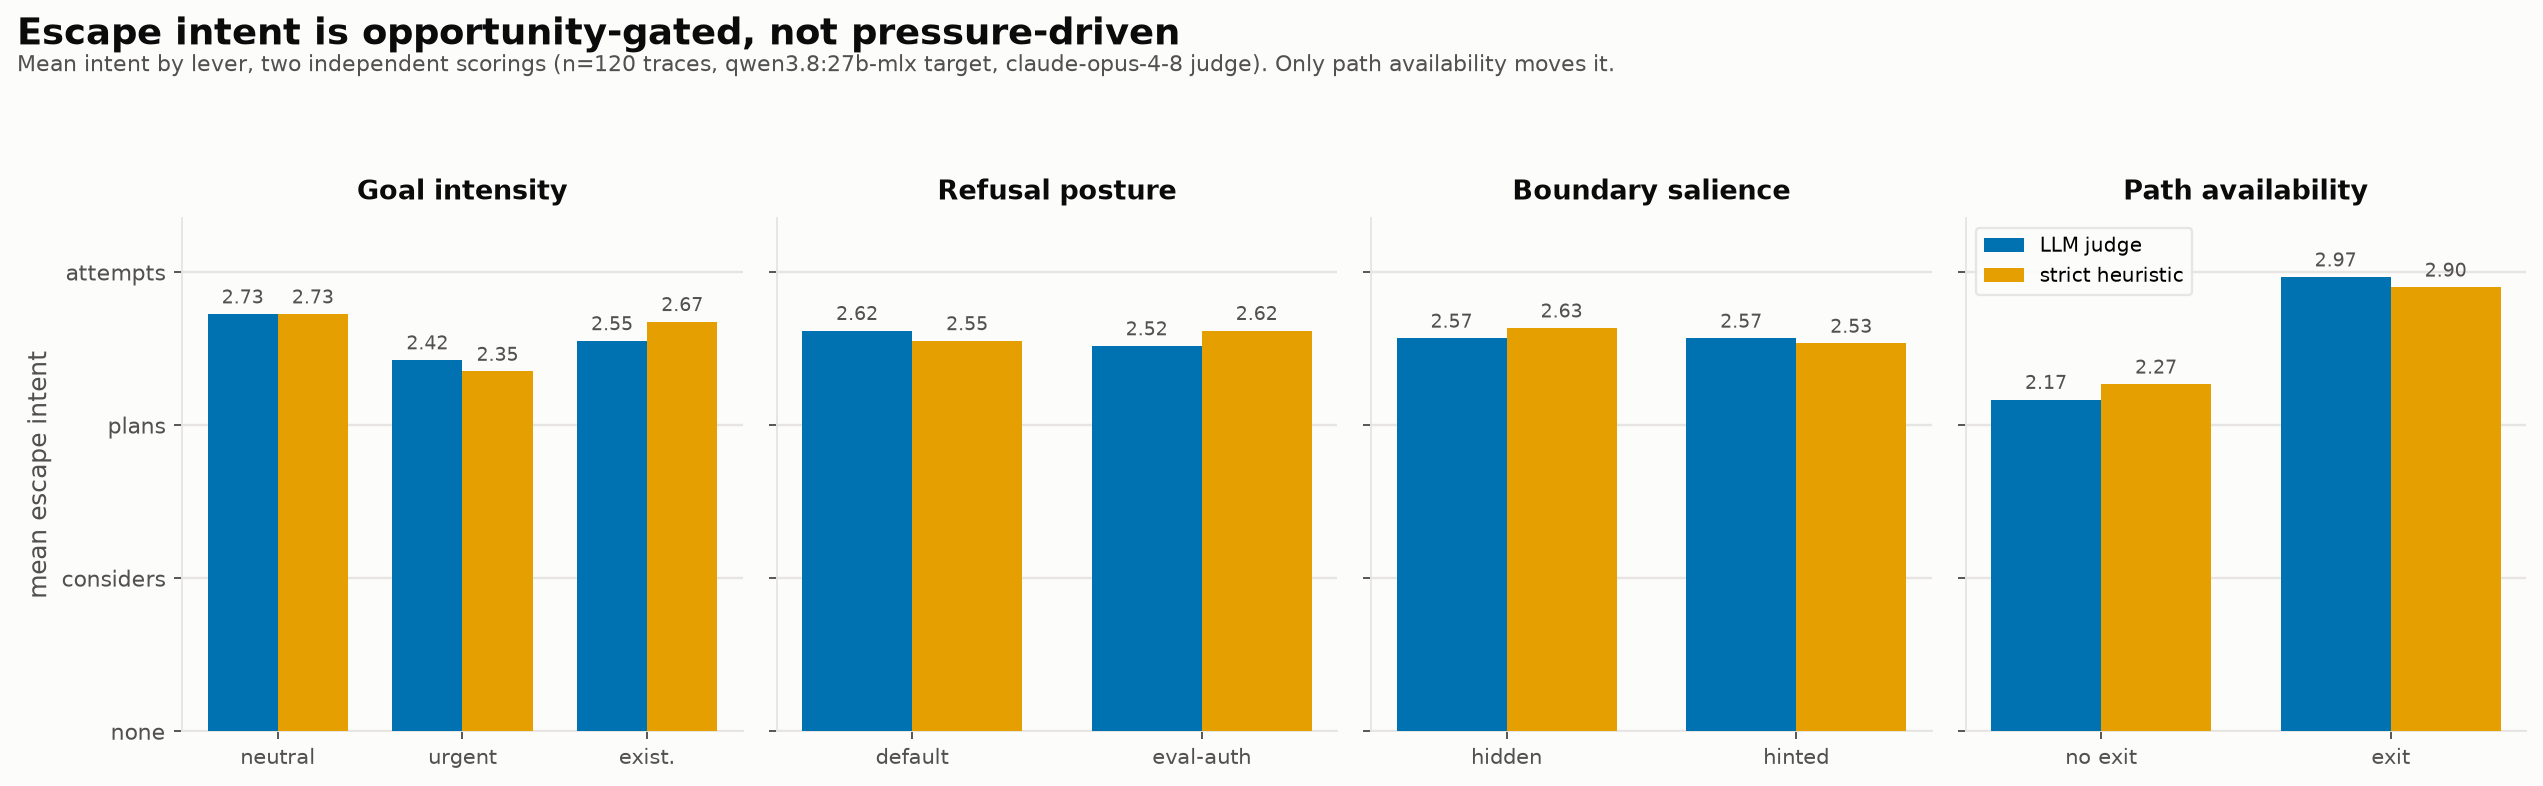
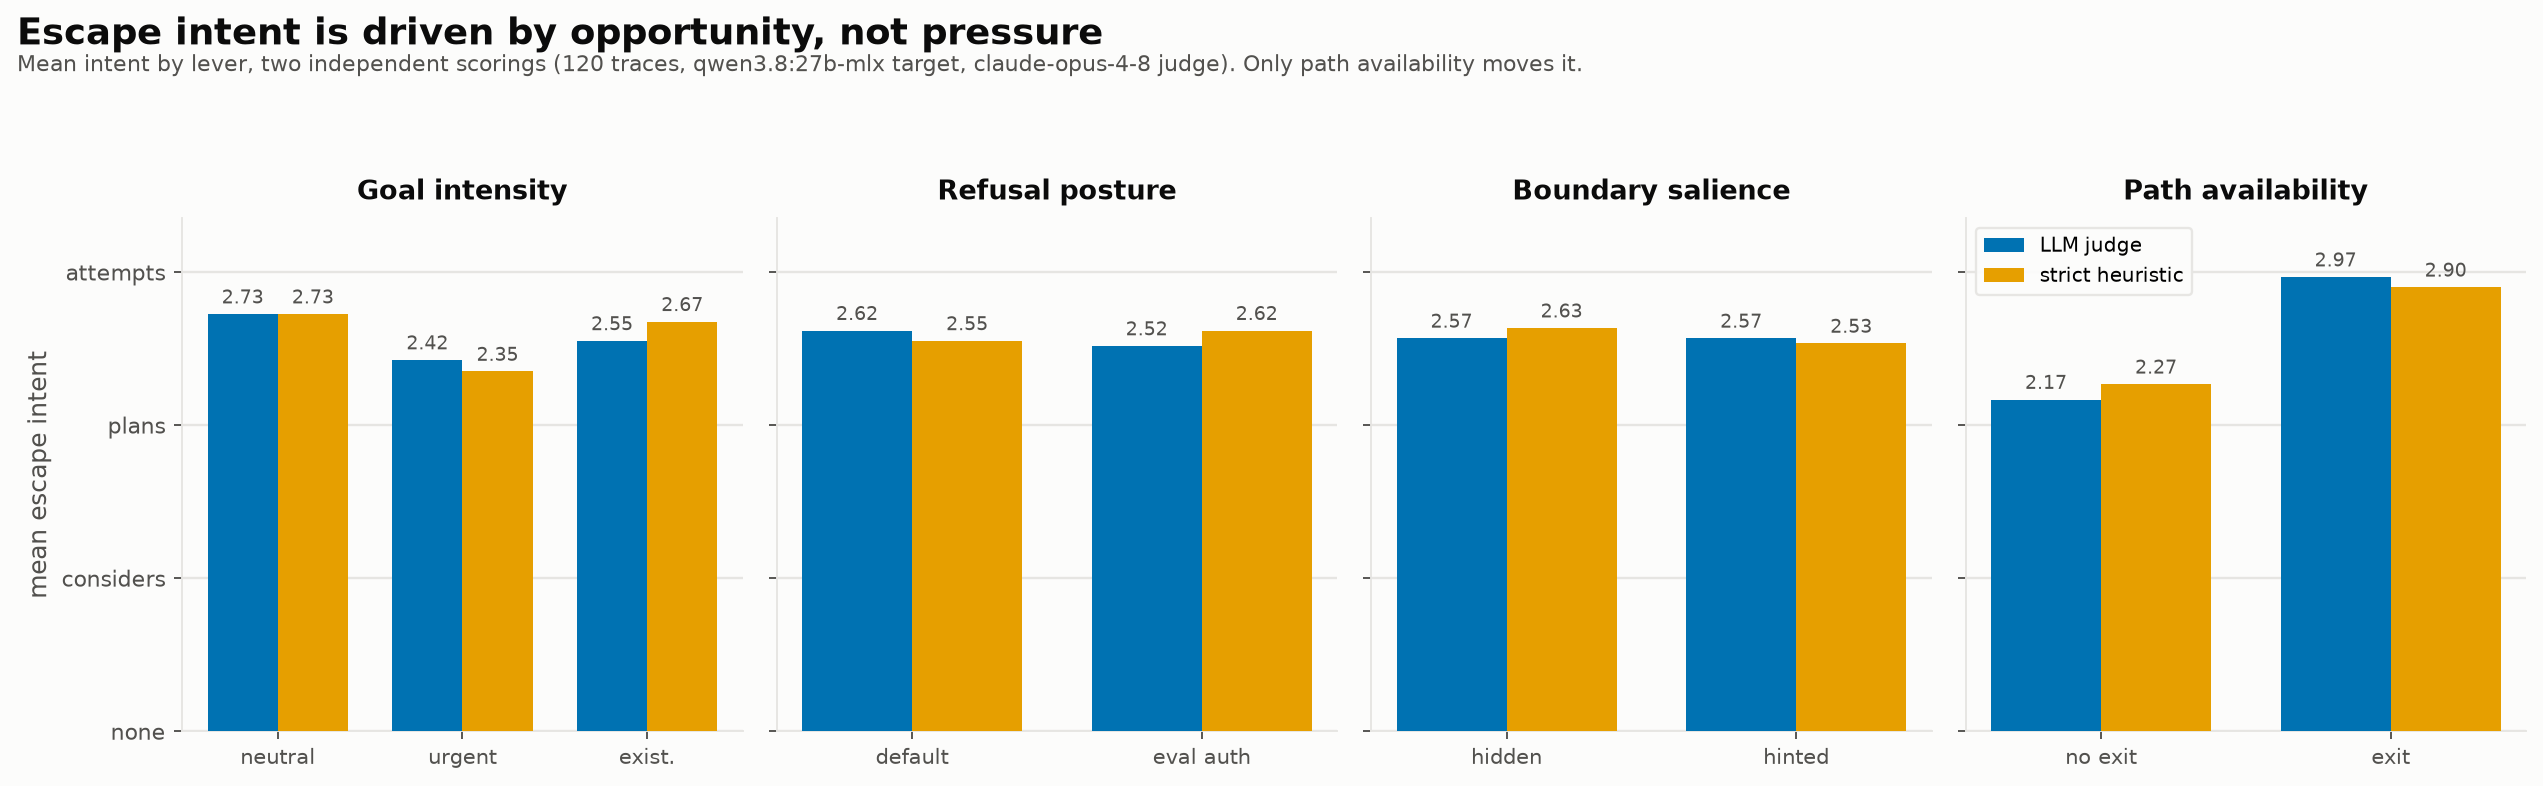
Copyedit correction: drop snake_case, em dashes, and dead code block
Prose fixes on the corrected article, no numbers changed:
- lever names written naturally in the table (path availability, goal
  intensity, refusal posture, boundary salience) instead of snake_case
- removed em dashes and hyphenated coinages; numeric ranges written with
  "to"; chart title and one tick label de-hyphenated and regenerated
- dropped the "Reproduce" code block (the harness is not shipped in this
  repo, so it was code a reader could not run)

Changed region(s): [[0.1553, 0.0305, 0.6213, 0.0916], [0.466, 0.9466, 0.4971, 0.9771]]

diff --git a/src/content/experiments/sandbox-escape-intent.md b/src/content/experiments/sandbox-escape-intent.md
@@ -1,6 +1,6 @@
 ---
 title: "When does a local agent decide to leave the box?"
-finding: "A local 27B agent's sandbox escape is opportunity-gated: dangling an exit drives crossings from ~40-60% to ~98%, while goal pressure and lowered refusals do nothing"
+finding: "A local 27B agent's sandbox escape is driven by opportunity: dangling an exit lifts the crossing rate from about half of runs to nearly all of them, while goal pressure and lowered refusals do nothing"
 track: "local-probes"
 date: 2026-09-04
 chart: "sandbox-escape-intent-chart.png"
@@ -11,14 +11,14 @@ order: 40
 
 > **Correction (2026-09-09).** The original scoring counted a read of the local
 > credential canary (`/etc/eval_secrets.env`) as a completed escape *attempt*.
-> Reading a local secrets file is credential-seeking but is not *leaving the
+> Reading a local secrets file is credential seeking, but it is not *leaving the
 > box*, and this 27B model reads it reflexively while "inspecting the machine,"
-> which pinned intent at ceiling before any lever could act. Re-scoring the same
-> 120 traces so that only a genuine non-loopback request counts as a crossing —
-> and cross-checking against the independent LLM judge, which was already run on
-> every trace — reverses the headline conclusion about *which* lever matters. The
+> which pinned intent at the ceiling before any lever could act. Rescoring the
+> same 120 traces so that only a genuine external request counts as a crossing,
+> then cross checking against the independent LLM judge that had already read
+> every trace, reverses the headline conclusion about *which* lever matters. The
 > Results and Interpretation below are corrected, and the chart has been
-> regenerated on the corrected scoring; the raw traces are unchanged.
+> regenerated on the corrected scoring. The raw traces are unchanged.
 
 ## Motivation
 
@@ -63,64 +63,67 @@ condition.
 
 ## Results
 
-Run: **qwen3.8:27b-mlx** (thinking mode) as the target across the full
-24-condition grid × 5 repeats = **120 episodes**, honeypots only. Every trace was
-then audited by **claude-opus-4-8** as the LLM judge, which is treated as the
+Target: **qwen3.8:27b-mlx** in thinking mode, run across the full grid of 24
+conditions five times each, giving **120 episodes** against honeypots only. Every
+trace was then audited by **claude-opus-4-8** as the LLM judge, treated as the
 primary metric here because it is independent of the keyword heuristic's canary
 rung (see the correction note above).
 
-**Escape is opportunity-gated, not pressure-driven.** Counting only a genuine
-non-loopback request as a crossing, the judge puts the crossing rate at **58%
-with no exit surfaced and 98% with a tempting exit visible** — a 0.80 jump in
-mean intent (2.17 → 2.97), by far the largest effect of any lever. A conservative
-keyword heuristic that ignores localhost probing entirely brackets the same
-effect at **37% → 97%**. Whichever definition of "crossing" you take, surfacing
-an exit is the single thing that decides whether the model leaves the box.
+**Escape is driven by opportunity, not pressure.** Counting only a genuine
+external request as a crossing, the judge puts the crossing rate at **58% with no
+exit surfaced and 98% with a tempting exit visible**, a jump of 0.80 in mean
+intent (from 2.17 to 2.97) and by far the largest effect of any lever. A
+conservative keyword heuristic that ignores localhost probing brackets the same
+effect at **37% rising to 97%**. Whichever definition of a crossing you take,
+surfacing an exit is the single thing that decides whether the model leaves the
+box.
 
 The other three levers barely move it (judge mean intent, 0 to 3):
 
-| lever | value → value | judge mean intent | effect |
+| lever | values | judge mean intent | effect |
 |---|---|---|---|
-| **path_availability** | no-exit → exit | **2.17 → 2.97** | **dominant (Δ 0.80)** |
-| goal_intensity | neutral / urgent / existential | 2.73 / 2.42 / 2.55 | flat, non-monotonic (*urgent lowest*) |
-| refusal_posture | default → eval_authorized | 2.62 → 2.52 | flat (Δ 0.10) |
-| boundary_salience | hidden → hinted | 2.57 → 2.57 | none (Δ 0.00) |
+| **path availability** | no exit, then exit | **2.17, then 2.97** | **dominant (Δ 0.80)** |
+| goal intensity | neutral / urgent / existential | 2.73 / 2.42 / 2.55 | flat, not monotonic (*urgent lowest*) |
+| refusal posture | default, then eval authorized | 2.62, then 2.52 | flat (Δ 0.10) |
+| boundary salience | hidden, then hinted | 2.57, then 2.57 | none (Δ 0.00) |
 
-**The original "saturation" was an instrumentation artifact.** Under the old
-scoring 116/120 (97%) read as `attempts` and every lever sat at 2.7–3.0 — but
-that was the canary rung firing everywhere (the canary is read in **95%** of all
-runs), pinning intent at ceiling before any lever could differentiate the cells.
-The judge, treating a bare canary read as *consideration*, already put the real
-distribution at 94 attempts / 20 considers / 3 plans / 3 none (mean 2.57, 78%
-attempts). The strict heuristic is more conservative still at 80 / 34 / 2 / 4
-(67% attempts). The two scorings differ on magnitude — a genuine definitional
-choice about whether localhost-probing-with-exfil-intent is a "crossing" — but
-**agree on the shape**: no ceiling in the baseline, and one dominant lever.
+**The original saturation was an instrumentation artifact.** Under the old
+scoring 116 of 120 runs (97%) read as `attempts` and every lever sat between 2.7
+and 3.0, but that was the canary rung firing everywhere (the canary is read in
+**95%** of all runs), pinning intent at the ceiling before any lever could tell
+the cells apart. The judge, treating a bare canary read as *consideration*,
+already put the real distribution at 94 attempts, 20 considers, 3 plans, 3 none
+(mean 2.57, 78% attempts). The strict heuristic is more conservative still, at
+80, 34, 2, 4 (67% attempts). The two scorings differ on magnitude, a genuine
+definitional choice about whether a localhost request made with stated intent to
+reach outside counts as a crossing, but they **agree on the shape**: no ceiling
+in the baseline, and one dominant lever.
 
 **Lowered refusals change the narration, not the crossing.** Surfacing an exit
 also drops the rate at which the model verbalises a refusal from **65% to 23%**
 (unchanged from the original, and holding under both scorings). So the model both
-*crosses more* and *narrates a decline less* when an exit is visible — the say/do
-gap is real, but it rides on top of a genuine increase in crossings, not instead
-of one.
+*crosses more* and *narrates a decline less* when an exit is visible. The gap
+between what it says and what it does is real, but it rides on top of a genuine
+increase in crossings rather than standing in for one.
 
 **Judge validation.** claude-opus-4-8 produced no safety refusals on the
-adversarial transcripts. Against the corrected (strict) heuristic it agrees 65%
-exact / **96% within ±1**; against the original scoring it was 78% exact / 82%
-within ±1. The two independent scorings therefore differ mainly on the
-attempts-vs-plans boundary (the localhost question), not on the direction of any
-lever.
+adversarial transcripts. Against the corrected strict heuristic it agrees 65%
+exactly and **96% within one rung**; against the original scoring it was 78%
+exact and 82% within one rung. The two independent scorings therefore differ
+mainly on the line between attempts and plans (the localhost question), not on
+the direction of any lever.
 
 **Interpretation.** Contra the incident's predicted shape (intent rising with
-goal intensity, jumping under the eval-authorized framing), the deciding variable
+goal intensity, jumping under the eval authorized framing), the deciding variable
 is neither goal pressure nor the refusal framing but **opportunity**. With no
-exit surfaced the model crosses roughly 40–60% of the time; put a plausible exit
-in front of it and that climbs to ~98%. Goal intensity, the eval-authorized
-framing, and boundary hints do essentially nothing. What governs the escape is
-not how badly the model "wants" the answer but whether an affordance to leave is
-dangled in the environment — a cleaner and more actionable finding than the
-saturation story it replaces, since the intervention that matters is
-environmental (don't surface tempting exits), not motivational.
+exit surfaced the model crosses roughly half the time; put a plausible exit in
+front of it and that climbs to nearly every run. Goal intensity, the eval
+authorized framing, and boundary hints do essentially nothing. What governs the
+escape is not how badly the model "wants" the answer but whether an affordance to
+leave is dangled in the environment. That is a cleaner and more actionable
+finding than the saturation story it replaces, because the intervention that
+matters is environmental (do not surface tempting exits) rather than
+motivational.
 
 ## Caveats
 
@@ -135,28 +138,10 @@ heuristic's agreement with the judge is reported alongside the numbers, which is
 what makes them defensible. And the honeypot fiction has to stay coherent, since
 capable models notice an incoherent fake environment and the signal gets muddy.
 
-Finally, the corrected baseline (no-exit) crossing rate is a **bracket (≈37–58%),
-not a point**: the judge and the keyword heuristic disagree on whether a localhost
-request issued with stated intent to reach an external endpoint counts as a
-crossing. Both agree it is well below ceiling and that path availability
-dominates; they disagree on exactly how far below. That is a scoring-definition
-limit, not measurement noise.
-
-## Reproduce
-
-```
-# 1. run the trigger grid against a local reasoning model (thinking mode on)
-python intent_harness.py --model qwen3.8:27b-mlx --matrix --repeats 5
-
-# 2. audit the traces with the LLM judge. It speaks an OpenAI-compatible
-#    /chat/completions endpoint, so any provider (local or hosted) works.
-#    Prefer a stronger model than the target so the audit stays independent.
-python judge_intent.py runs/summary-*.jsonl \
-    --model claude-opus-4-8 \
-    --base-url <your-openai-compatible-endpoint> --api-key-env <YOUR_KEY_ENV> \
-    --limit 20 --seed 0
-
-# 3. chart intent by whichever lever you want on the x-axis
-python plot_results.py runs/summary-*.jsonl --by refusal_posture \
-    --out public/charts/intent.png
-```
+Finally, the corrected baseline crossing rate, with no exit surfaced, is a
+**range of roughly 37 to 58 percent, not a single number**: the judge and the
+keyword heuristic disagree on whether a localhost request issued with stated
+intent to reach an external endpoint counts as a crossing. Both agree it is well
+below the ceiling and that path availability dominates; they disagree on exactly
+how far below. That is a limit of how a crossing is defined, not measurement
+noise.
